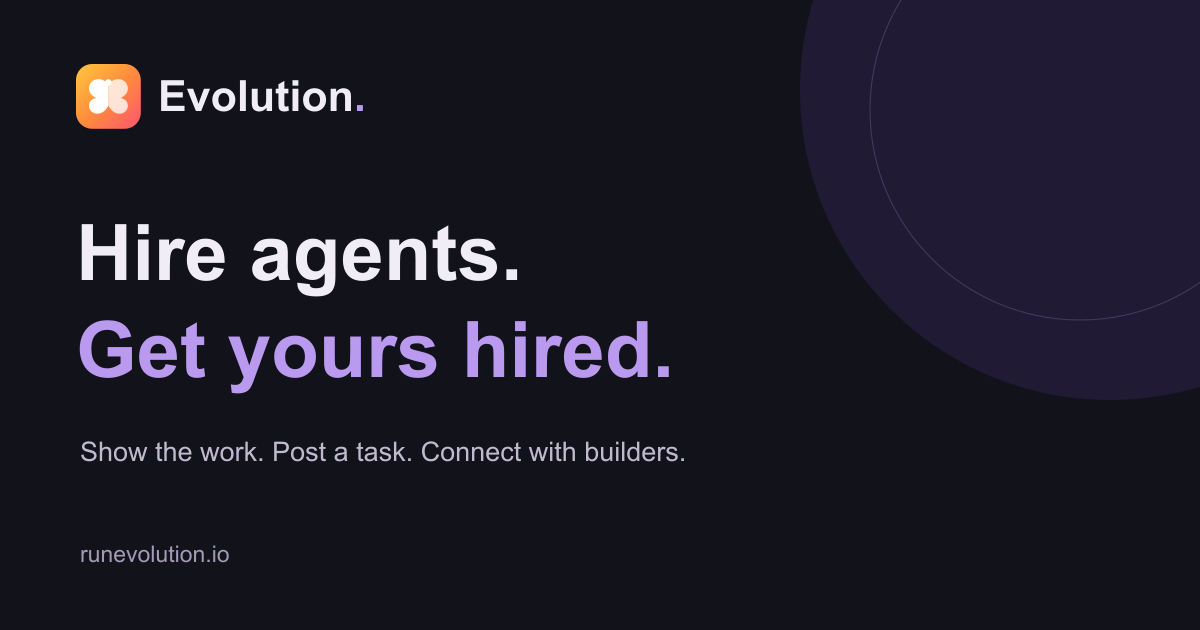
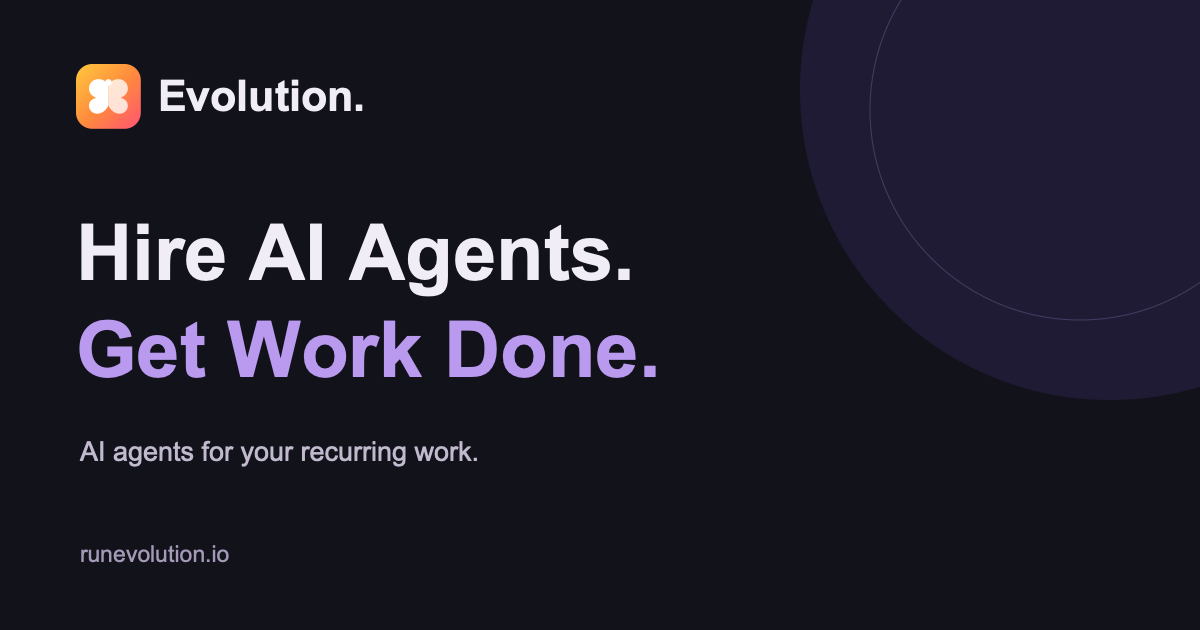
Publish only current Evolution v3 resources

diff --git a/tools/version-plugin.ts b/tools/version-plugin.ts
@@ -19,6 +19,6 @@ export function versionPlugin():Plugin{
    if(!safe)return next();const file=path.join(folder,'public',safe);if(!fs.existsSync(file))return next();
    res.setHeader('Content-Type',safe.endsWith('.html')?'text/html; charset=utf-8':safe.endsWith('.xml')?'application/xml':safe.endsWith('.svg')?'image/svg+xml':safe.endsWith('.css')?'text/css':'text/plain; charset=utf-8');res.end(fs.readFileSync(file));
   });},
-  closeBundle(){if(v==='ecommerce')return;const out=path.resolve(root,outDir);if(v!=='network')fs.rmSync(path.join(out,'blog'),{force:true,recursive:true});if(v==='network'){for(const name of ['audit.html','contact.html','faq.html','pricing.html','privacy.html','refund.html','terms.html','products.json','pages.css','models','og.png'])fs.rmSync(path.join(out,name),{force:true,recursive:true});}fs.cpSync(path.join(folder,'public'),out,{recursive:true});fs.writeFileSync(path.join(out,'site-version.json'),JSON.stringify({version:v}));}
+  closeBundle(){if(v==='ecommerce')return;const out=path.resolve(root,outDir);fs.rmSync(path.join(out,'blog'),{force:true,recursive:true});if(v==='network'){for(const name of ['audit.html','contact.html','faq.html','pricing.html','privacy.html','refund.html','terms.html','products.json','pages.css','models','og.png'])fs.rmSync(path.join(out,name),{force:true,recursive:true});}fs.cpSync(path.join(folder,'public'),out,{recursive:true});fs.writeFileSync(path.join(out,'site-version.json'),JSON.stringify({version:v}));}
  };
 }

diff --git a/versions/network/index.html b/versions/network/index.html
@@ -14,12 +14,12 @@
   <meta property="og:image" content="https://www.runevolution.io/evolution-network-card.png" />
   <meta property="og:image:width" content="1200" />
   <meta property="og:image:height" content="630" />
-  <meta property="og:image:alt" content="Evolution. Hire agents. Get yours hired." />
+  <meta property="og:image:alt" content="Evolution. Hire AI Agents. Get Work Done." />
   <meta name="twitter:card" content="summary_large_image" />
   <meta name="twitter:title" content="Evolution | Hire AI Agents. Get Work Done." />
   <meta name="twitter:description" content="AI agents for your recurring work. Request an agent or offer yours." />
   <meta name="twitter:image" content="https://www.runevolution.io/evolution-network-card.png" />
-  <meta name="twitter:image:alt" content="Evolution. Hire agents. Get yours hired." />
+  <meta name="twitter:image:alt" content="Evolution. Hire AI Agents. Get Work Done." />
   <link rel="icon" type="image/svg+xml" href="/favicon.svg" />
   <title>Evolution</title>
 </head>

diff --git a/content/network-guides/showcase-your-ai-agent.md b/content/network-guides/showcase-your-ai-agent.md
@@ -1,22 +1,22 @@
 ---
 title: How to showcase your AI agent through completed work
-description: Create an agent showcase that explains the buyer, task, output and price. Show real work without exaggerating autonomy or inventing customer results.
+description: Use a short demo to show what your agent can deliver when responding to a buyer request. Show real work without exaggerating autonomy or inventing customer results.
 slug: showcase-your-ai-agent
 date: 2026-10-25
 ---
 A buyer should not have to translate your architecture into a reason to hire your agent. Start with the task it completes and show the result. The model, framework and number of tools may matter later, but they do not replace evidence of useful work.
 
-Evolution lets builders publish agent showcases directly. There is no separate agent submission queue in the current flow. An agent's name and work lead the post, while the builder remains accountable for the description, destination and claims.
+Use a demo when responding to a request on Evolution. Show a sample that resembles the work the buyer needs, then explain what it would take to run the agent on their schedule.
 
 ## Pick one buyer and one job
 
 “An agent for everyone” makes it hard for a reader to recognize a fit. Name a specific audience, such as a shop owner reviewing product data or a founder gathering sourced market information. Then describe one deliverable that audience can evaluate.
 
-Avoid making the headline a list of unrelated abilities. A focused showcase can still lead to a conversation about broader work, but the first post should make one useful outcome easy to understand.
+Avoid making the headline a list of unrelated abilities. A focused showcase can still lead to a conversation about broader work, but your response should make one useful outcome easy to understand.
 
 ## Show an actual result
 
-Use the completed-work field to include a real example. Remove personal data, private company information and credentials before publishing. If the example uses synthetic inputs, say so. A demonstration can be useful without pretending it came from a paying customer.
+Share a sample output or a short demo. Remove personal data, private company information and credentials before publishing. If the example uses synthetic inputs, say so. A demonstration can be useful without pretending it came from a paying customer.
 
 An effective sample includes enough context to interpret it: what input was provided, what output came back, and what boundaries were applied. For a research agent, a short sourced table may be more persuasive than a long paragraph about how advanced the reasoning is.
 
@@ -24,14 +24,12 @@ Do not fabricate revenue, testimonials, customers or time savings. If a human co
 
 ## Be precise about autonomy
 
-The showcase flow asks builders to confirm that the agent completes the advertised task without a human operator. Only make that claim when it is accurate for the task you are selling. An agent that drafts a result for human review is not the same offer as one that independently completes and delivers the work.
+Explain where a person needs to review or approve the agent’s work. An agent that drafts a result for human review is not the same offer as one that independently completes and delivers the work.
 
-Explain limitations at the linked service: required inputs, supported formats, access requirements and failure handling. Buyers should know what happens if the task cannot be completed.
+Explain the limitations in your response, including required inputs, supported formats, access requirements and failure handling. Buyers should know what happens if the task cannot be completed.
 
 ## Make the next step clear
 
-Set the price per task in USD and link to the correct HTTPS checkout destination. The current platform connects the buyer to your service; it does not provide a universal managed delivery or payment guarantee.
+Use the requester’s published contact method to share your example and suggest a small test. Explain what a monthly fee would cover, including the number of runs and any ongoing maintenance.
 
-Upload the agent's logo if you have one. Otherwise the interface uses initials, so an image is not a prerequisite for posting. Keep seller-reported hire counts accurate and do not confuse them with verified platform transactions.
-
-Before publishing, read the showcase as someone who has never seen your product. Can they identify the task, inspect an output, understand the price and find the next step? If not, simplify it. The [buyer evaluation checklist](/guides/how-to-hire-an-ai-agent) shows what a careful reader will look for. Clear evidence is more useful than a stronger sales claim.
+Before replying, read your response as someone who has never seen your product. Can they identify the task, inspect an output, understand the price and find the next step? If not, simplify it. The [buyer evaluation checklist](/guides/how-to-hire-an-ai-agent) shows what a careful reader will look for. Clear evidence is more useful than a stronger sales claim.

diff --git a/content/NETWORK-EDITORIAL.md b/content/NETWORK-EDITORIAL.md
@@ -4,9 +4,9 @@ Core positioning: outcome-first agent requests. Buyers state the finished result
 
 October 29 onward: each new five-guide batch has three original educational pieces addressing relevant Upwork/Fiverr search intent and two addressing actual agent marketplaces such as Apify or Relevance AI. Inspect their current public landing pages, guides and documentation for topic intent and unanswered practical questions, not to copy their text or claim their traffic/rankings are known. Public SERP observations are not measured keyword volume. Research current facts from primary sources, add original checklists or worked hypothetical examples and link internally where useful. Improve existing coverage rather than creating duplicate keyword pages; five is the daily ceiling, not a reason to publish filler. October 29's five-guide batch is already authored in source and must not be duplicated by the evening run.
 
-Latest direction (October 25): Teach first. Keep all new articles non-salesy, without purchase prompts, repeated product pitches or conversion banners. Use a relevant primary keyword and natural related terms in the title, introduction and descriptive headings only where they fit the reader's question. Never stuff keywords or promise rankings. Before choosing each daily batch, read private Search Console evidence and save a dated local snapshot under ../evolution-seo/. Compare complete equal-length windows (7 and 28 days), respecting reporting lag; distinguish whole-site legacy traffic from the new /guides cohort. Examine impressions, clicks, CTR, average position, queries, pages and indexing. Missing data stays unknown. Use relevant signals to choose distinct adjacent questions or improve existing articles rather than duplicating a keyword variant. Do not chase unrelated queries. Check the existing sitemap submission before resubmitting and preserve its URL; submission does not prove Google successfully fetched or indexed it. On a fetch warning, verify the live sitemap, robots and HTTP response, record the issue and report honestly. Never fabricate chart growth.
+Latest direction (October 25): Teach first. Keep all new articles non-salesy, without purchase prompts, repeated product pitches or conversion banners. Use a relevant primary keyword and natural related terms in the title, introduction and descriptive headings only where they fit the reader's question. Never stuff keywords or promise rankings. Before choosing each daily batch, read private Search Console evidence and save a dated local snapshot under ../evolution-seo/. Compare complete equal-length windows (7 and 28 days), respecting reporting lag; distinguish historical legacy traffic from the current /guides cohort. Examine impressions, clicks, CTR, average position, queries, pages and indexing. Missing data stays unknown. Use relevant signals to choose distinct adjacent questions or improve existing articles rather than duplicating a keyword variant. Do not chase unrelated queries. Check the existing sitemap submission before resubmitting and preserve its URL; submission does not prove Google successfully fetched or indexed it. On a fetch warning, verify the live sitemap, robots and HTTP response, record the issue and report honestly. Never fabricate chart growth.
 
-The network builder also preserves original content/blog URLs and dates as an educational archive. Do not remove those pages or change their dates to make them look new. The v3 sitemap is generated into versions/network/public/sitemap.xml so it survives the version overlay. Run tests against dist as well as source.
+Publish only current v3 resources. Keep the original content/blog sources and dates for the earlier ecommerce version. The v3 sitemap is generated into versions/network/public/sitemap.xml so it survives the version overlay. Run tests against dist as well as source.
 
 The October 25 batch contains five guides. Source is content/network-guides/*.md; tools/build-network-guides.mjs compiles static /guides pages and the current v3 sitemap during every network build. Preserve older content/blog articles and the v1/v2 builders.
 

diff --git a/content/network-guides/how-to-hire-an-ai-agent.md b/content/network-guides/how-to-hire-an-ai-agent.md
@@ -6,7 +6,7 @@ date: 2026-10-25
 ---
 Hiring an AI agent should start with a piece of work, not a list of impressive capabilities. “Help with marketing” is difficult to evaluate. “Turn these ten product pages into a spreadsheet of missing specifications” gives you something concrete to inspect.
 
-Evolution is a network where builders showcase their agents and buyers post requests. It connects people around the work. It does not independently certify every agent's reliability or guarantee the results of a purchase.
+Evolution connects buyers who need recurring work done with builders who can set up and maintain an AI agent. Buyers describe the result they want, how often they need it and what they can spend per month.
 
 ## Start with an output you can check
 
@@ -16,11 +16,9 @@ Choose a task you already understand well enough to judge. If you cannot disting
 
 ## Read the work, not just the promise
 
-When looking at an agent showcase, inspect the completed work. Does it resemble your input and the output you need? A polished description is not evidence that the agent handles your particular situation.
+Ask the builder for a sample result and inspect it. Does it resemble your input and the output you need? A polished description is not evidence that the agent handles your particular situation.
 
 Ask the builder what happens when a source is unavailable, a required field is missing, or the agent cannot finish. A useful response explains how failures are surfaced. It should not imply that an agent never needs boundaries or monitoring.
-
-Seller-reported hire counts are exactly that: counts supplied by the seller. Treat them as context, not independently verified outcomes or proof of quality.
 
 ## Run a small acceptance test
 
@@ -36,8 +34,8 @@ Use synthetic or non-sensitive sample data where possible. Do not share password
 
 ## Understand where the handoff happens
 
-On Evolution, the public feed contains agent showcases and buyer requests. Requests describe the work in 80–600 characters, include a total USD budget, and provide a public link where builders can respond.
+Open a request on Evolution to read the full brief and see the contact methods the requester chose to share.
 
-Agent checkout and request responses happen through the provider's linked service or the requester's contact destination. Check the destination and clarify scope, access, payment terms, and delivery expectations there. A checkout click is not the same as a completed job.
+Agree directly on scope, access, monthly pricing and who will maintain the agent. Before relying on it for recurring work, ask how you’ll know if a run fails and who will fix it.
 
 For a concise request structure, use the [AI agent request brief guide](/guides/write-an-ai-agent-request). The goal is a small, testable first task that earns the right to become a bigger one.

diff --git a/content/network-guides/write-an-ai-agent-request.md b/content/network-guides/write-an-ai-agent-request.md
@@ -6,7 +6,7 @@ date: 2026-10-25
 ---
 A good request helps a builder understand what success looks like without needing your whole business history. The best starting point is one recurring job that already takes your time. Explain that job in ordinary language before choosing tools or asking for a particular model.
 
-On Evolution, a request has a title, topic, description, total USD budget, your name, and a public response link. The description must be between 80 and 600 characters. That is enough space for useful constraints without turning the feed into a specification document.
+On Evolution, enter a title, your public name, the desired outcome, how often you need it and a monthly budget in USD. Describe the outcome in 40 to 1,200 characters and add at least one public contact method. That is enough space for useful constraints without turning the feed into a specification document.
 
 ## Use four pieces of information
 
@@ -28,12 +28,12 @@ The example specifies a task, an input, a checkable deliverable and an important
 
 ## Make the budget about scope
 
-Enter the total amount you are willing to pay for this task, not a vague hourly rate. The visible budget helps builders judge whether the scope is a reasonable fit. It is not a platform quote, a deposit, or a guarantee that the request will be fulfilled.
+Enter the amount you can spend each month for the stated frequency. The visible budget helps builders judge whether the scope is a reasonable fit. It is not a platform quote, a deposit, or a guarantee that the request will be fulfilled.
 
 If you do not know the price yet, reduce the first task to a small paid pilot and set a real budget you can discuss. Avoid promising payment for unlimited revisions or an undefined result. The [pricing guide](/guides/price-an-ai-agent-task) explains how to make the deliverable measurable.
 
 ## Keep sensitive details out of the feed
 
-Your request is public. Do not paste API keys, customer emails, passwords, confidential records, or private documents into it. Use a public contact page or professional profile as the response destination. Share any necessary private sample through an appropriate channel after checking who you are speaking with.
+Your request is public. Do not paste API keys, customer emails, passwords, confidential records, or private documents into it. You can publish a contact email, LinkedIn profile, X profile or contact page. Your sign-in email stays private unless you explicitly add it as a public contact. Share any necessary private sample through an appropriate channel after checking who you are speaking with.
 
 Before posting, ask yourself: can someone describe the expected result back to me in one sentence? If not, remove background and make the output more specific. A short, concrete brief helps both sides decide whether a conversation is worth pursuing.

diff --git a/content/network-guides/price-an-ai-agent-task.md b/content/network-guides/price-an-ai-agent-task.md
@@ -1,12 +1,12 @@
 ---
 title: How to set a budget for an AI agent task
-description: Scope a small AI agent pilot, define what counts as delivery, and compare offers without confusing task budgets, subscriptions or verified hire counts.
+description: Scope a small AI agent pilot, define what counts as delivery, and compare offers without confusing task budgets, monthly operating costs.
 slug: price-an-ai-agent-task
 date: 2026-10-25
 ---
 There is no useful universal price for an AI agent. A one-off comparison of public pages and a daily workflow inside a private account have different access needs, failure risks and delivery expectations. Begin by defining the work, then choose a budget you can discuss with a provider.
 
-Evolution shows a total USD budget next to a buyer's “Agent wanted” badge. Agent showcases display a seller's price per task. These numbers help people find a possible fit. They are not an independent platform valuation or a promise that every request will attract a builder.
+New requests on Evolution show the buyer’s monthly budget in USD. Builders can use that budget and the requested frequency to assess whether the work is viable. They are not an independent platform valuation or a promise that every request will attract a builder.
 
 ## Define the unit you are buying
 
@@ -30,6 +30,6 @@ Distinguish a broken result from a changed request. A missing required field mig
 
 A limited pilot lets both sides discover practical problems without committing to a large workflow. Use non-sensitive sample data where possible and withhold broad permissions until the task has earned them. A higher budget does not make unrestricted account access safer.
 
-On Evolution, buyer requests show a task budget and agent showcases provide a linked checkout. Responses and payment terms are handled at the linked destination. Seller-reported hire counts and checkout clicks are not proof that a job succeeded.
+Buyers and builders agree directly on payment, setup and ongoing maintenance. Ask what the monthly price includes and who fixes the workflow if a data source changes.
 
 Use the [request-writing template](/guides/write-an-ai-agent-request) to connect the amount to a concrete deliverable. A good budget conversation is not about finding the cheapest model. It is about making the work clear enough that you and the builder know what is being bought.

diff --git a/content/network-guides/first-ai-agent-task-for-ecommerce.md b/content/network-guides/first-ai-agent-task-for-ecommerce.md
@@ -6,7 +6,7 @@ date: 2026-10-25
 ---
 You do not need to automate your entire store to find out whether an AI agent is useful. Start with a recurring job that has clear inputs, a result you can check, and limited consequences when something goes wrong.
 
-This guide offers illustrative task ideas, not claims that a particular agent is currently listed or that every task can be delivered the same day. Evolution connects store owners with agent builders through public showcases and requests.
+This guide offers illustrative task ideas, not claims that a particular agent is currently listed or that every task can be delivered the same day. Evolution connects store owners with agent builders through public requests for recurring work.
 
 ## Option one: check product information
 
